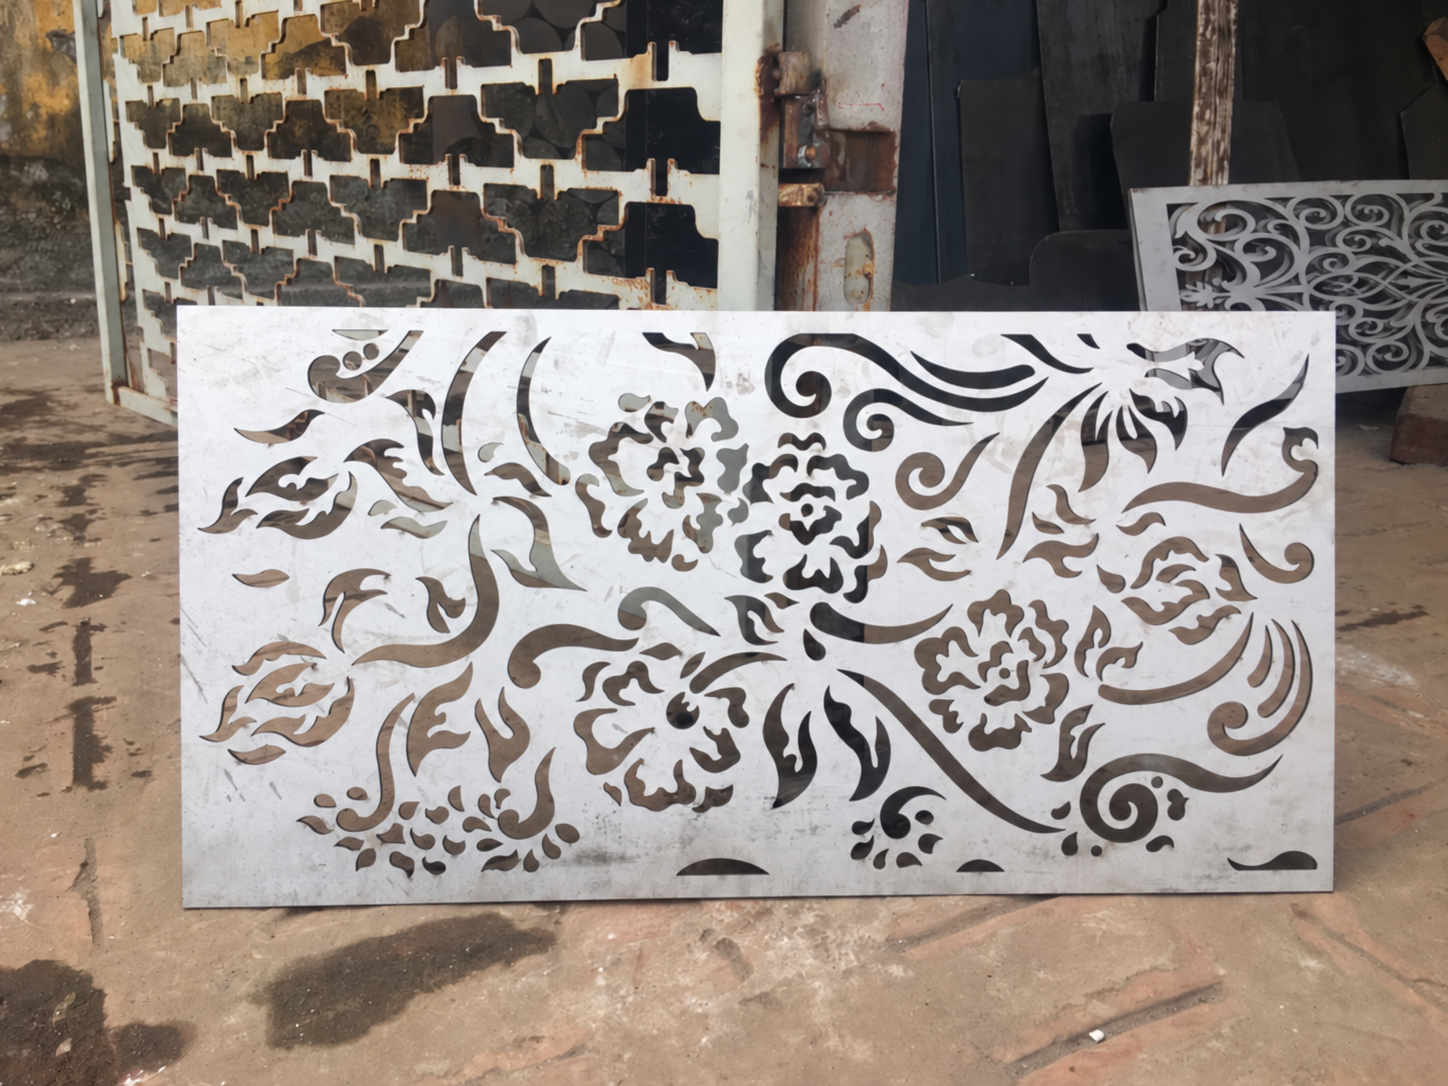
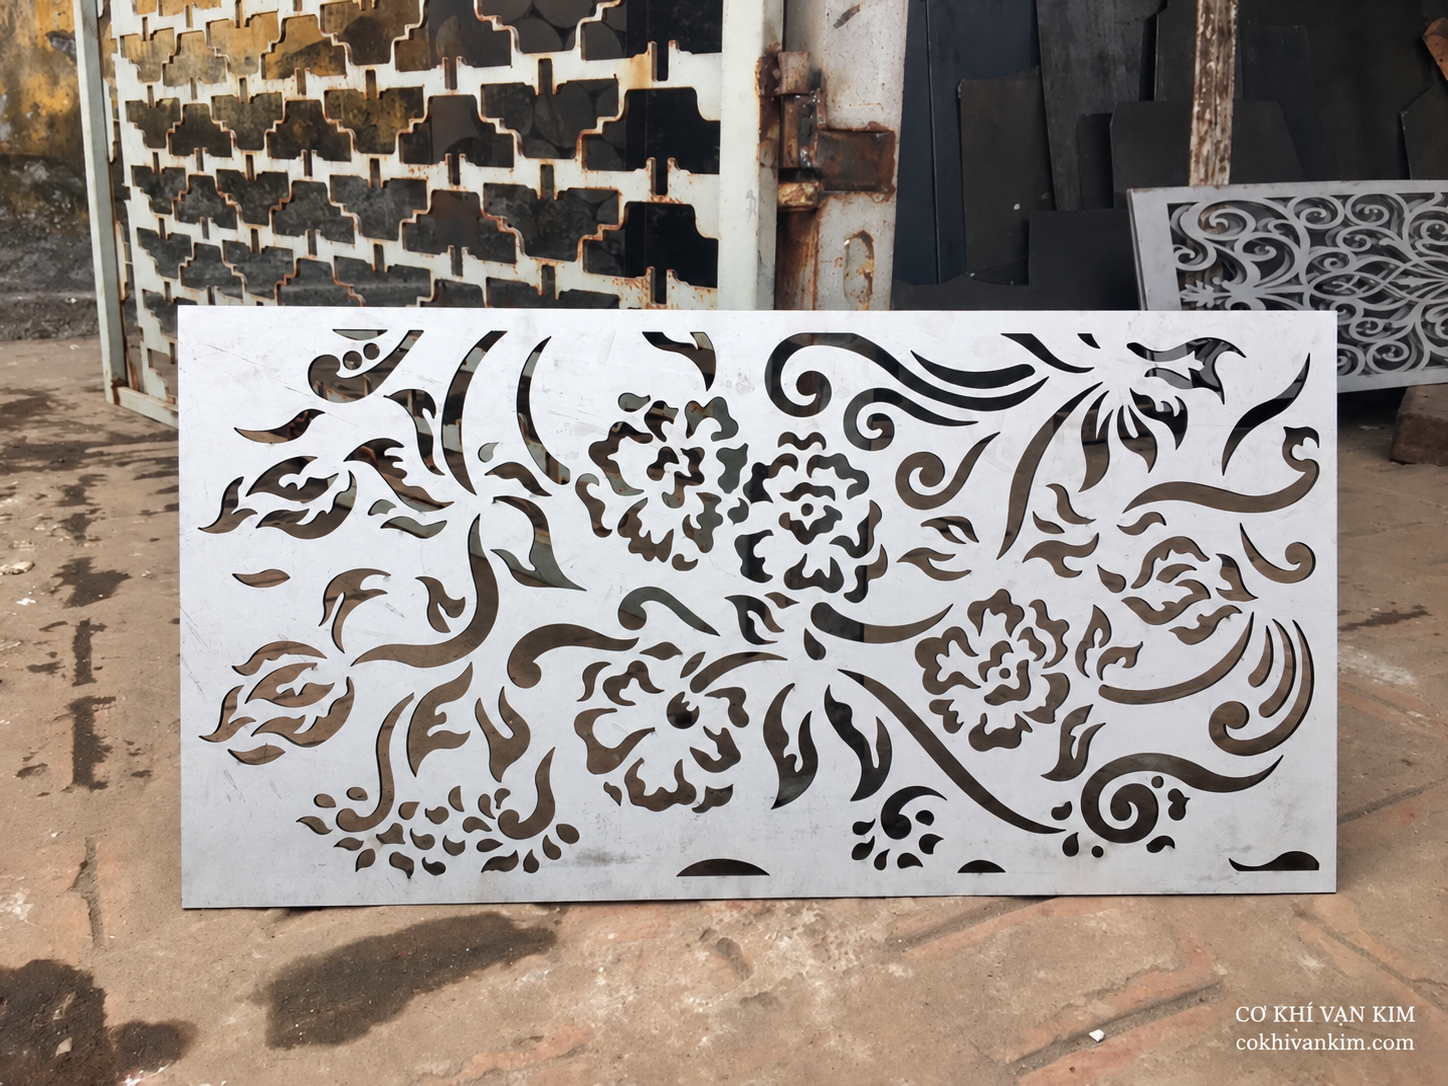
Replace laser workshop watermarks

diff --git a/WATERMARK_PLAN.md b/WATERMARK_PLAN.md
@@ -14,11 +14,17 @@ Cập nhật: 2026-10-27.
 - 168 trang/bài có ảnh nội dung.
 - 977 ảnh nội dung riêng biệt cần rà watermark.
 - 214 ảnh được dùng ở từ hai trang trở lên, chỉ cần thay một lần.
-- 385 ảnh đã có bản thay thế được duyệt.
+- 391 ảnh đã có bản thay thế được duyệt.
 - 489 ảnh đã kiểm tra, không có watermark cũ.
 
 ## Trạng thái ảnh đã duyệt
 
+- [x] `/media/ac44f523f9d7f2073937.jpg` → `/brand-media/laser-machine-workshop-vankim.png` — dùng ở 1 trang.
+- [x] `/media/eebd29e38ec415685836.jpg` → `/brand-media/laser-cut-parts-stack-vankim.png` — dùng ở 1 trang.
+- [x] `/media/25342349f6391b3ae17f.jpg` → `/brand-media/laser-floral-screen-vankim.png` — dùng ở 1 trang.
+- [x] `/media/6473c20966f02f8710a5.jpg` → `/brand-media/laser-floral-panel-vankim.png` — dùng ở 1 trang.
+- [x] `/media/fe91e5cbbdb36c487429.jpg` → `/brand-media/laser-cut-scrap-table-vankim.png` — dùng ở 1 trang.
+- [x] `/media/966ff5109cea6a61140c.jpg` → `/brand-media/cnc-turning-workshop-vankim.png` — dùng ở 1 trang.
 - [x] `/media/2f049d5006fa4fa95c05.jpg` → `/brand-media/sheet-metal-bracket-assembly-vankim.png` — dùng ở 1 trang.
 - [x] `/media/36ece80e8ef6951aa5b4.jpg` → `/brand-media/stainless-profiles-vankim.png` — dùng ở 1 trang.
 - [x] `/media/7d03d0bf41cbf620a81a.jpg` → `/brand-media/stainless-workshop-panels-vankim.png` — dùng ở 1 trang.
@@ -3535,7 +3541,7 @@ Cập nhật: 2026-10-27.
   - [—] `/media/8717f343d5f97e8f5e4b.jpg` — dùng ở 1 trang — nguồn: https://cokhitonghop.vn/thumb/800x600/2/upload/news/67210725/thi-cong-thang-may-gia-dinh-quan-4-gia-re.jpg
   - [—] `/media/914651473e0c3609e54f.jpg` — dùng ở 2 trang — nguồn: https://cokhitonghop.vn/upload/news/67210725.jpg
 
-### [ ] Tin tức & kiến thức cơ khí. Hiểu rõ trước khi gia công.
+### [x] Tin tức & kiến thức cơ khí. Hiểu rõ trước khi gia công.
 
 - Route: `/tin-tuc/page/7/`
 - Ảnh cần rà: 26
@@ -3561,9 +3567,9 @@ Cập nhật: 2026-10-27.
   - [x] `/media/66cc223419890acda822.jpg` — dùng ở 2 trang — nguồn: https://cokhitonghop.vn/upload/news/13195708.jpg
   - [x] `/media/7d03d0bf41cbf620a81a.jpg` — dùng ở 1 trang — nguồn: https://cokhitonghop.vn/thumb/800x600/2/upload/news/21057247/gia-cong-co-khi-go-vap-gia-cong-co-khi-theo-yeu-cau.jpg
   - [x] `/media/0285a9cb866c70d16bc9.jpg` — dùng ở 2 trang — nguồn: https://cokhitonghop.vn/upload/news/21057247.jpg
-  - [ ] `/media/ac44f523f9d7f2073937.jpg` — dùng ở 1 trang — nguồn: https://cokhitonghop.vn/thumb/800x600/2/upload/news/22608188/gia-cong-cat-laser-kim-loai-tam-tphcm-cat-cnc-kim-loai-gia-re.jpg
+  - [x] `/media/ac44f523f9d7f2073937.jpg` — dùng ở 1 trang — nguồn: https://cokhitonghop.vn/thumb/800x600/2/upload/news/22608188/gia-cong-cat-laser-kim-loai-tam-tphcm-cat-cnc-kim-loai-gia-re.jpg
   - [x] `/media/07dc4d94a5c30a3817a6.jpg` — dùng ở 2 trang — nguồn: https://cokhitonghop.vn/upload/news/22608188.jpg
-  - [ ] `/media/eebd29e38ec415685836.jpg` — dùng ở 1 trang — nguồn: https://cokhitonghop.vn/thumb/800x600/2/upload/news/77390565/cat-laser-kim-loai-quan-binh-tan-gia-cong-cat-sat-inox-thep-tam.jpg
+  - [x] `/media/eebd29e38ec415685836.jpg` — dùng ở 1 trang — nguồn: https://cokhitonghop.vn/thumb/800x600/2/upload/news/77390565/cat-laser-kim-loai-quan-binh-tan-gia-cong-cat-sat-inox-thep-tam.jpg
   - [x] `/media/0c9a317c947ffae226f0.jpg` — dùng ở 2 trang — nguồn: https://cokhitonghop.vn/upload/news/77390565.jpg
 
 ### [ ] Tin tức & kiến thức cơ khí. Hiểu rõ trước khi gia công.
@@ -3572,13 +3578,13 @@ Cập nhật: 2026-10-27.
 - Ảnh cần rà: 26
   - [x] `/media/edfcb9597003e3fdd4b7.png` — dùng ở 30 trang — nguồn: https://cokhitonghop.vn/upload/hinhanh/774.png
   - [x] `/media/f6b5bf15d8acf9f7a1ba.png` — dùng ở 168 trang — nguồn: https://cokhitonghop.vn/upload/hinhanh/23041154.png
-  - [ ] `/media/25342349f6391b3ae17f.jpg` — dùng ở 1 trang — nguồn: https://cokhitonghop.vn/thumb/800x600/2/upload/news/81205835/cat-cnc-kim-loai-va-cat-cnc-sat-thep-tam-tai-tphcm.jpg
+  - [x] `/media/25342349f6391b3ae17f.jpg` — dùng ở 1 trang — nguồn: https://cokhitonghop.vn/thumb/800x600/2/upload/news/81205835/cat-cnc-kim-loai-va-cat-cnc-sat-thep-tam-tai-tphcm.jpg
   - [x] `/media/7edbb0e70fee2c0b7c3f.jpg` — dùng ở 2 trang — nguồn: https://cokhitonghop.vn/upload/news/81205835.jpg
-  - [ ] `/media/6473c20966f02f8710a5.jpg` — dùng ở 1 trang — nguồn: https://cokhitonghop.vn/thumb/800x600/2/upload/news/62776837/cat-hoa-van-sat-cnc-tphcm-mau-cua-sat-cong-sat-cnc.jpg
+  - [x] `/media/6473c20966f02f8710a5.jpg` — dùng ở 1 trang — nguồn: https://cokhitonghop.vn/thumb/800x600/2/upload/news/62776837/cat-hoa-van-sat-cnc-tphcm-mau-cua-sat-cong-sat-cnc.jpg
   - [x] `/media/35fa08ef4bbffa979e10.jpg` — dùng ở 2 trang — nguồn: https://cokhitonghop.vn/upload/news/62776837.jpg
-  - [ ] `/media/fe91e5cbbdb36c487429.jpg` — dùng ở 1 trang — nguồn: https://cokhitonghop.vn/thumb/800x600/2/upload/news/44311223/cat-laser-kim-loai-thu-duc-cat-laser-sat-thep-inox-gia-re.jpg
+  - [x] `/media/fe91e5cbbdb36c487429.jpg` — dùng ở 1 trang — nguồn: https://cokhitonghop.vn/thumb/800x600/2/upload/news/44311223/cat-laser-kim-loai-thu-duc-cat-laser-sat-thep-inox-gia-re.jpg
   - [x] `/media/a04eab3573aa39f7d28c.jpg` — dùng ở 2 trang — nguồn: https://cokhitonghop.vn/upload/news/44311223.jpg
-  - [ ] `/media/966ff5109cea6a61140c.jpg` — dùng ở 1 trang — nguồn: https://cokhitonghop.vn/thumb/800x600/2/upload/news/43261773/dich-vu-gia-cong-co-khi-tai-bien-hoa-theo-yeu-cau.jpg
+  - [x] `/media/966ff5109cea6a61140c.jpg` — dùng ở 1 trang — nguồn: https://cokhitonghop.vn/thumb/800x600/2/upload/news/43261773/dich-vu-gia-cong-co-khi-tai-bien-hoa-theo-yeu-cau.jpg
   - [x] `/media/745b0fbd95d0ac280c21.jpg` — dùng ở 2 trang — nguồn: https://cokhitonghop.vn/upload/news/43261773.jpg
   - [ ] `/media/e24789c8626e7892d14e.jpg` — dùng ở 1 trang — nguồn: https://cokhitonghop.vn/thumb/800x600/2/upload/news/35338802/nhan-cat-laser-kim-loai-sat-thep-inox-nhom-tphcm-cat-laser-fiber-gia-re.jpg
   - [x] `/media/c494847f2c8fc08a15a6.jpg` — dùng ở 4 trang — nguồn: https://cokhitonghop.vn/upload/news/35338802.jpg
